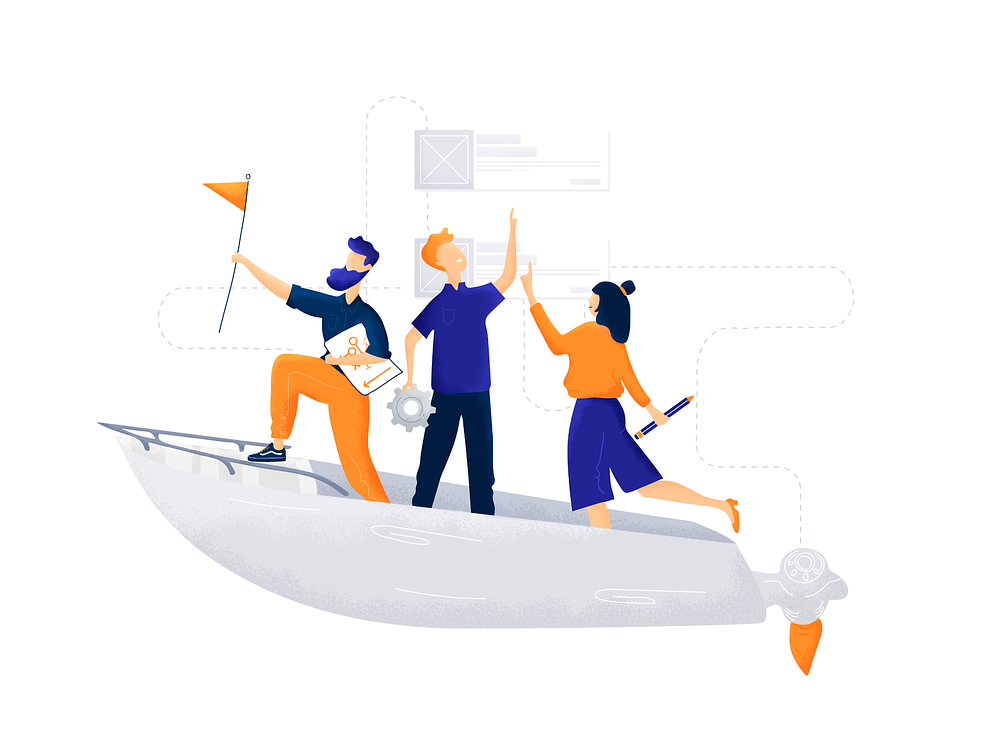
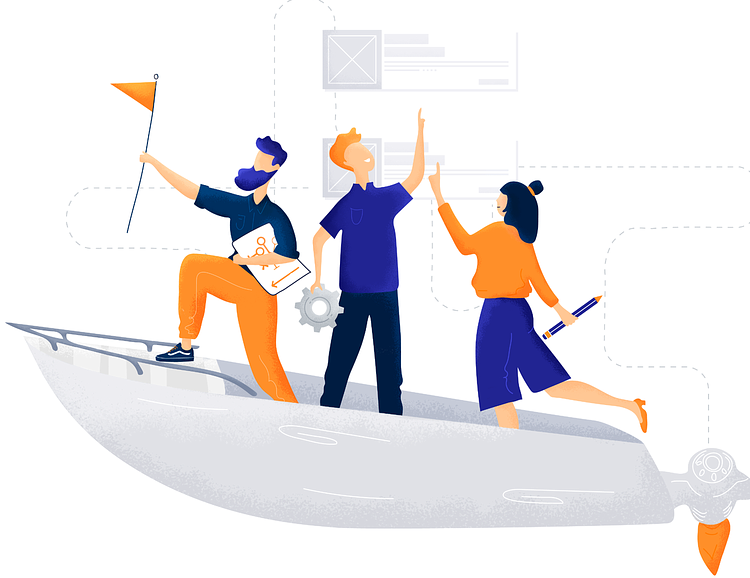
Jobs Page Modifications

Changed region(s): [[0.0, 0.0311, 1.0, 0.9965]]

diff --git a/Assets/index.css b/Assets/index.css
@@ -165,16 +165,22 @@ input{
     margin-top: 0.5em;
     margin-bottom: 1em;
     border-color: #07294b;
-    border-width: 2px;
+    border-width: 3px;
     border-style: solid;
-    border-radius:0.5em;
-    padding-left:0.5em;
+    border-radius:1.5em;
+    padding-left:1em;
     color: #000000;
     font-weight: 600;
     width: 100%;
 }
+input:focus::placeholder {
+color: white;
+  } 
+ input:focus>label{
+color: aqua;
+ }
 ::placeholder{
-    padding-left: 0.5em;
+    padding-left: 0em;
     color: #000;
     font-weight: 600;
 }
@@ -403,7 +409,7 @@ margin: 0.5em;
     }
     
 }
-@media (min-width:993px) and (max-width:1280px){
+@media (min-width:993px) and (max-width:1800px){
     .NavBar{
         width:50%;
     }

diff --git a/Assets/Jobs.css b/Assets/Jobs.css
@@ -9,9 +9,14 @@
 }
 .JobsSection{
     padding-top: 5em;
+    display: flex;
+    flex-direction: column;
+    justify-content: center;
 }
 .JobsVector{
-    width:100%;
+    width:50%;
+    margin: auto;
+    
 }
 .JobsSubHeading{
     text-align: center;
@@ -20,9 +25,20 @@
 }
 .JobsSubHeading>span{
     color:#92C83E;
+    padding: 0.5em;
 }
+
 @media (max-width:650px){
     .JobsSubHeading{
         font-size: 0.8em;
+    }
+}
+@media (max-width:1050px){
+    .JobsVector{
+        width:100%;
+        margin-top: 8em;
+    }
+    .FooterSection{
+        margin-top: 15em;
     }
 }
